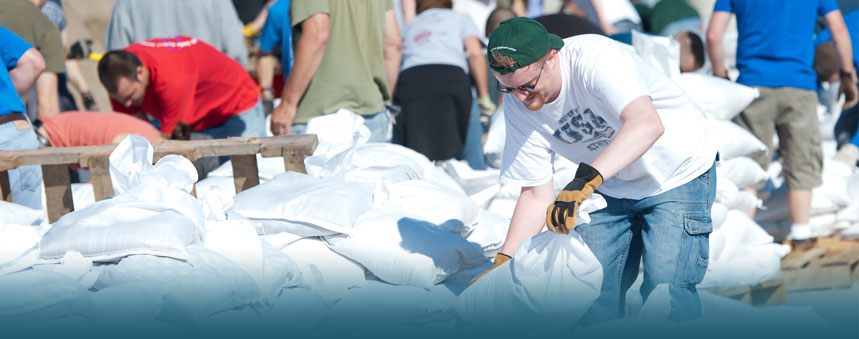
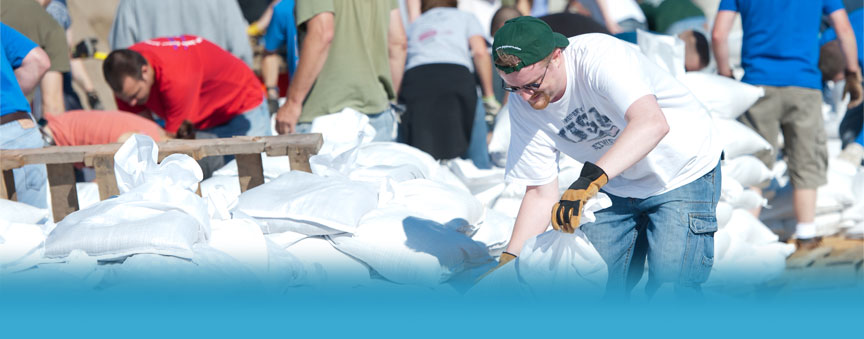
updated planning_bg image, palette fixes

diff --git a/src/sass/main.scss b/src/sass/main.scss
@@ -1,5 +1,5 @@
-$lighter-blue: #4CA1C3;
-$darker-blue: #368AAC;
+$lighter-blue: #39aad2;
+$darker-blue: #2c88a9;
 $twdb-blue: #3f556d;
 
 $layout-drawer-width-threshold: 400px !default;
@@ -45,8 +45,9 @@ body {
     margin: 20px 0 0 0;
 
     i {
-      margin: 7px 0 0 -2px;
+      color: #ffffff;
       font-size: 34px;
+      margin: 7px 0 0 -2px;
     }
   }
 }
@@ -132,7 +133,7 @@ body {
   background-image: url(../images/planning_bg.jpg);
   background-repeat: no-repeat;
   background-size: 100% auto;
-  background-color: #225B6F;
+  background-color: $lighter-blue;
   min-height: 124px;
 }
 
@@ -168,7 +169,7 @@ body {
 
 .footer__twdb-logo {
   position: absolute;
-  right: 0px;
+  left: 0px;
   bottom: 1px;
 
   img {
